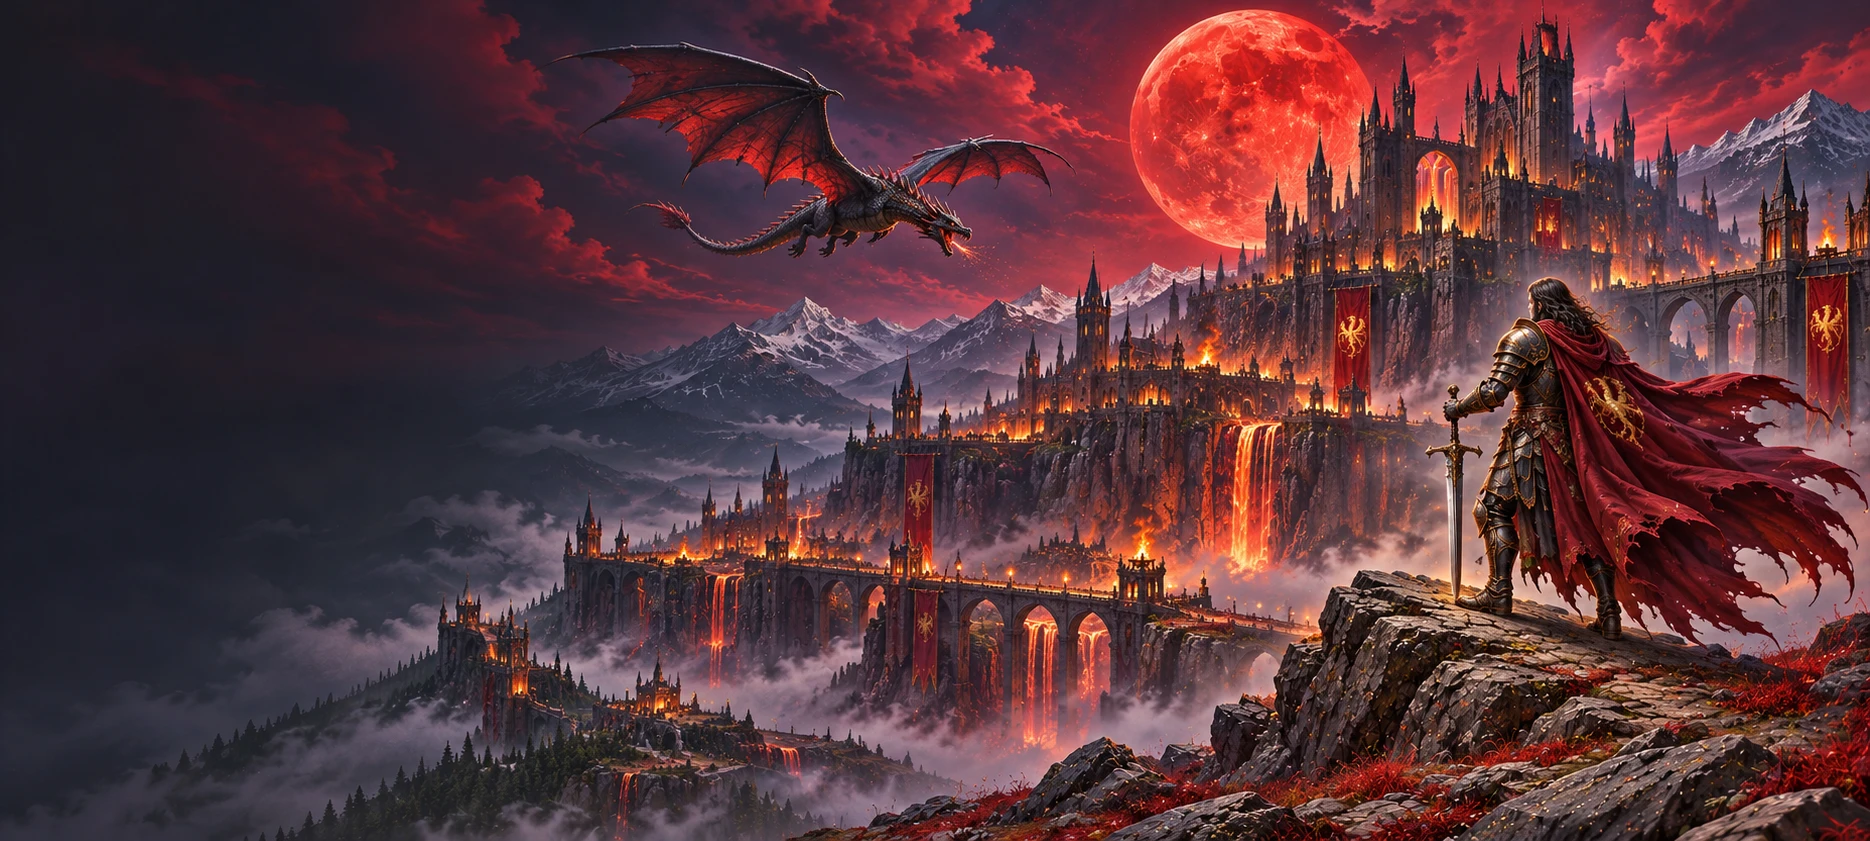
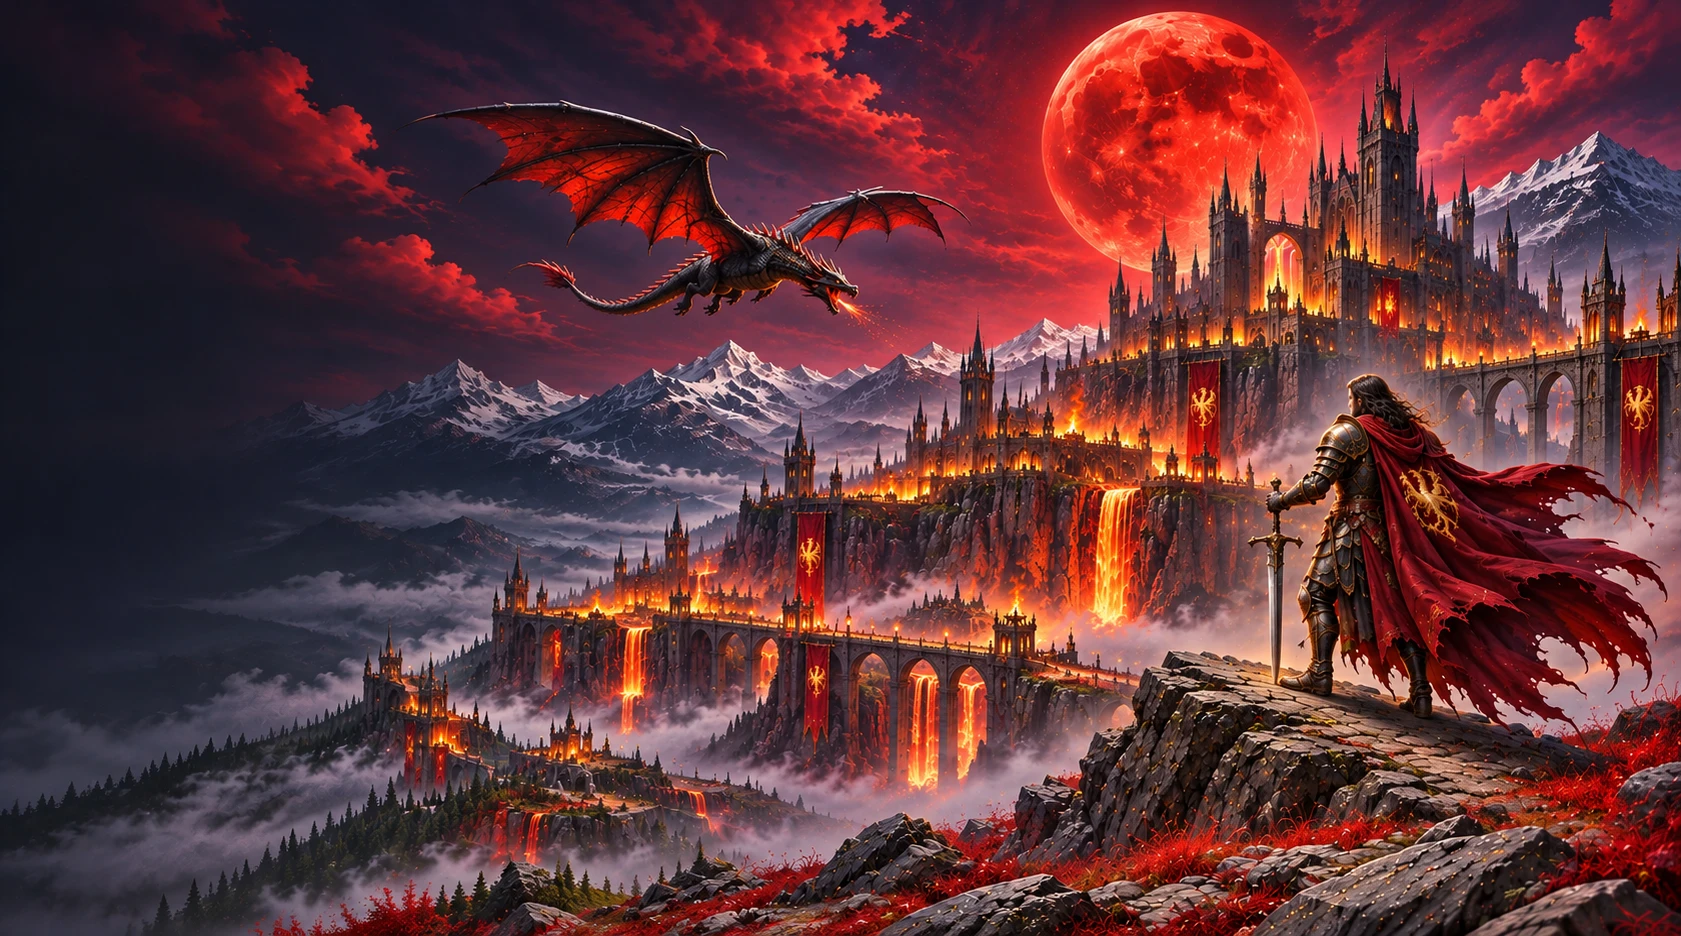
Swap in a taller (1.8:1) Dark Medieval Legends hero image
The 2.22:1 version still wasn't tall enough relative to the About
banner. Replaced it with a regenerated hero at 1.8:1, an
intermediate height between that and the Fantasy/Ethernia hero
ratio (1.5:1), with more sky, mountains and foreground to fill the
taller frame. Updated the container's aspect-ratio to match.

Claude-Session: https://claude.ai/code/session_012yoaRDnNDApPVyvypB1AdJ

diff --git a/dark-medieval-legends.html b/dark-medieval-legends.html
@@ -34,7 +34,7 @@ nav{position:fixed;top:0;left:0;width:100%;padding:16px 48px;background:rgba(5,8
 
 /* COLLECTION HERO — aspect-ratio always matches the hero image's own ratio (2000/700)
    so it is never cropped by object-fit on any device, per the image-display rule. */
-.coll-hero{position:relative;width:100%;aspect-ratio:1870/841;overflow:hidden;background:#050816;margin-top:0;display:flex;align-items:center;}
+.coll-hero{position:relative;width:100%;aspect-ratio:1681/936;overflow:hidden;background:#050816;margin-top:0;display:flex;align-items:center;}
 .coll-hero-media{position:absolute;inset:0;z-index:0;}
 .coll-hero-media img{width:100%;height:100%;object-fit:cover;display:block;}
 .coll-hero-shade{position:absolute;inset:0;z-index:1;background:linear-gradient(90deg,rgba(5,8,22,.3) 0%,rgba(5,8,22,.9) 8%,rgba(5,8,22,.92) 36%,rgba(5,8,22,.36) 64%,rgba(5,8,22,.06) 100%);}
